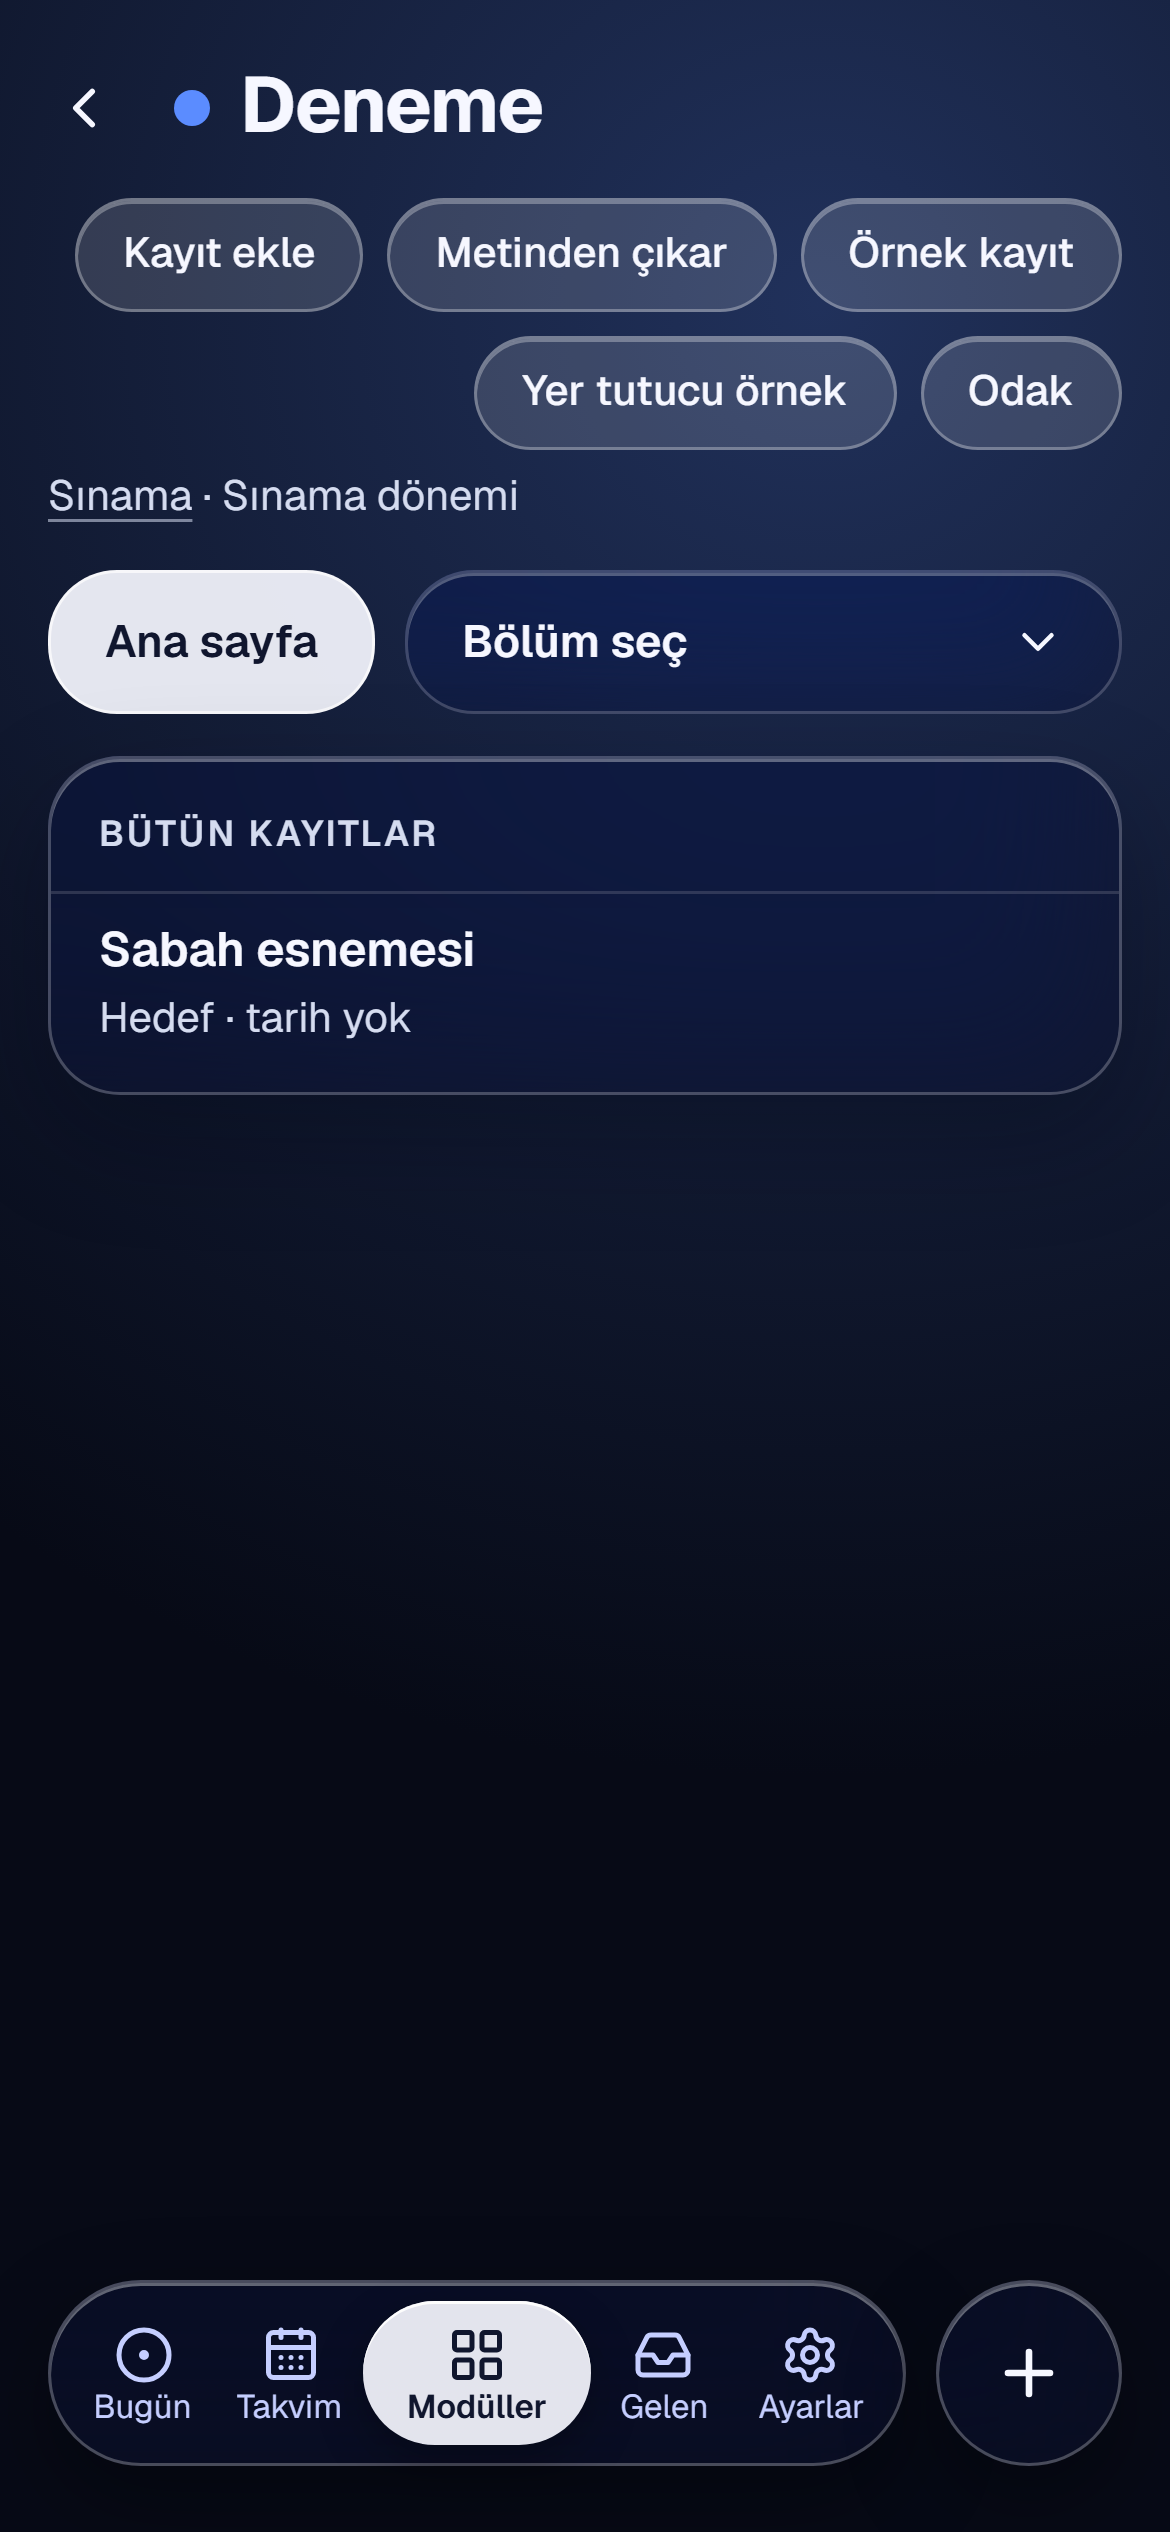
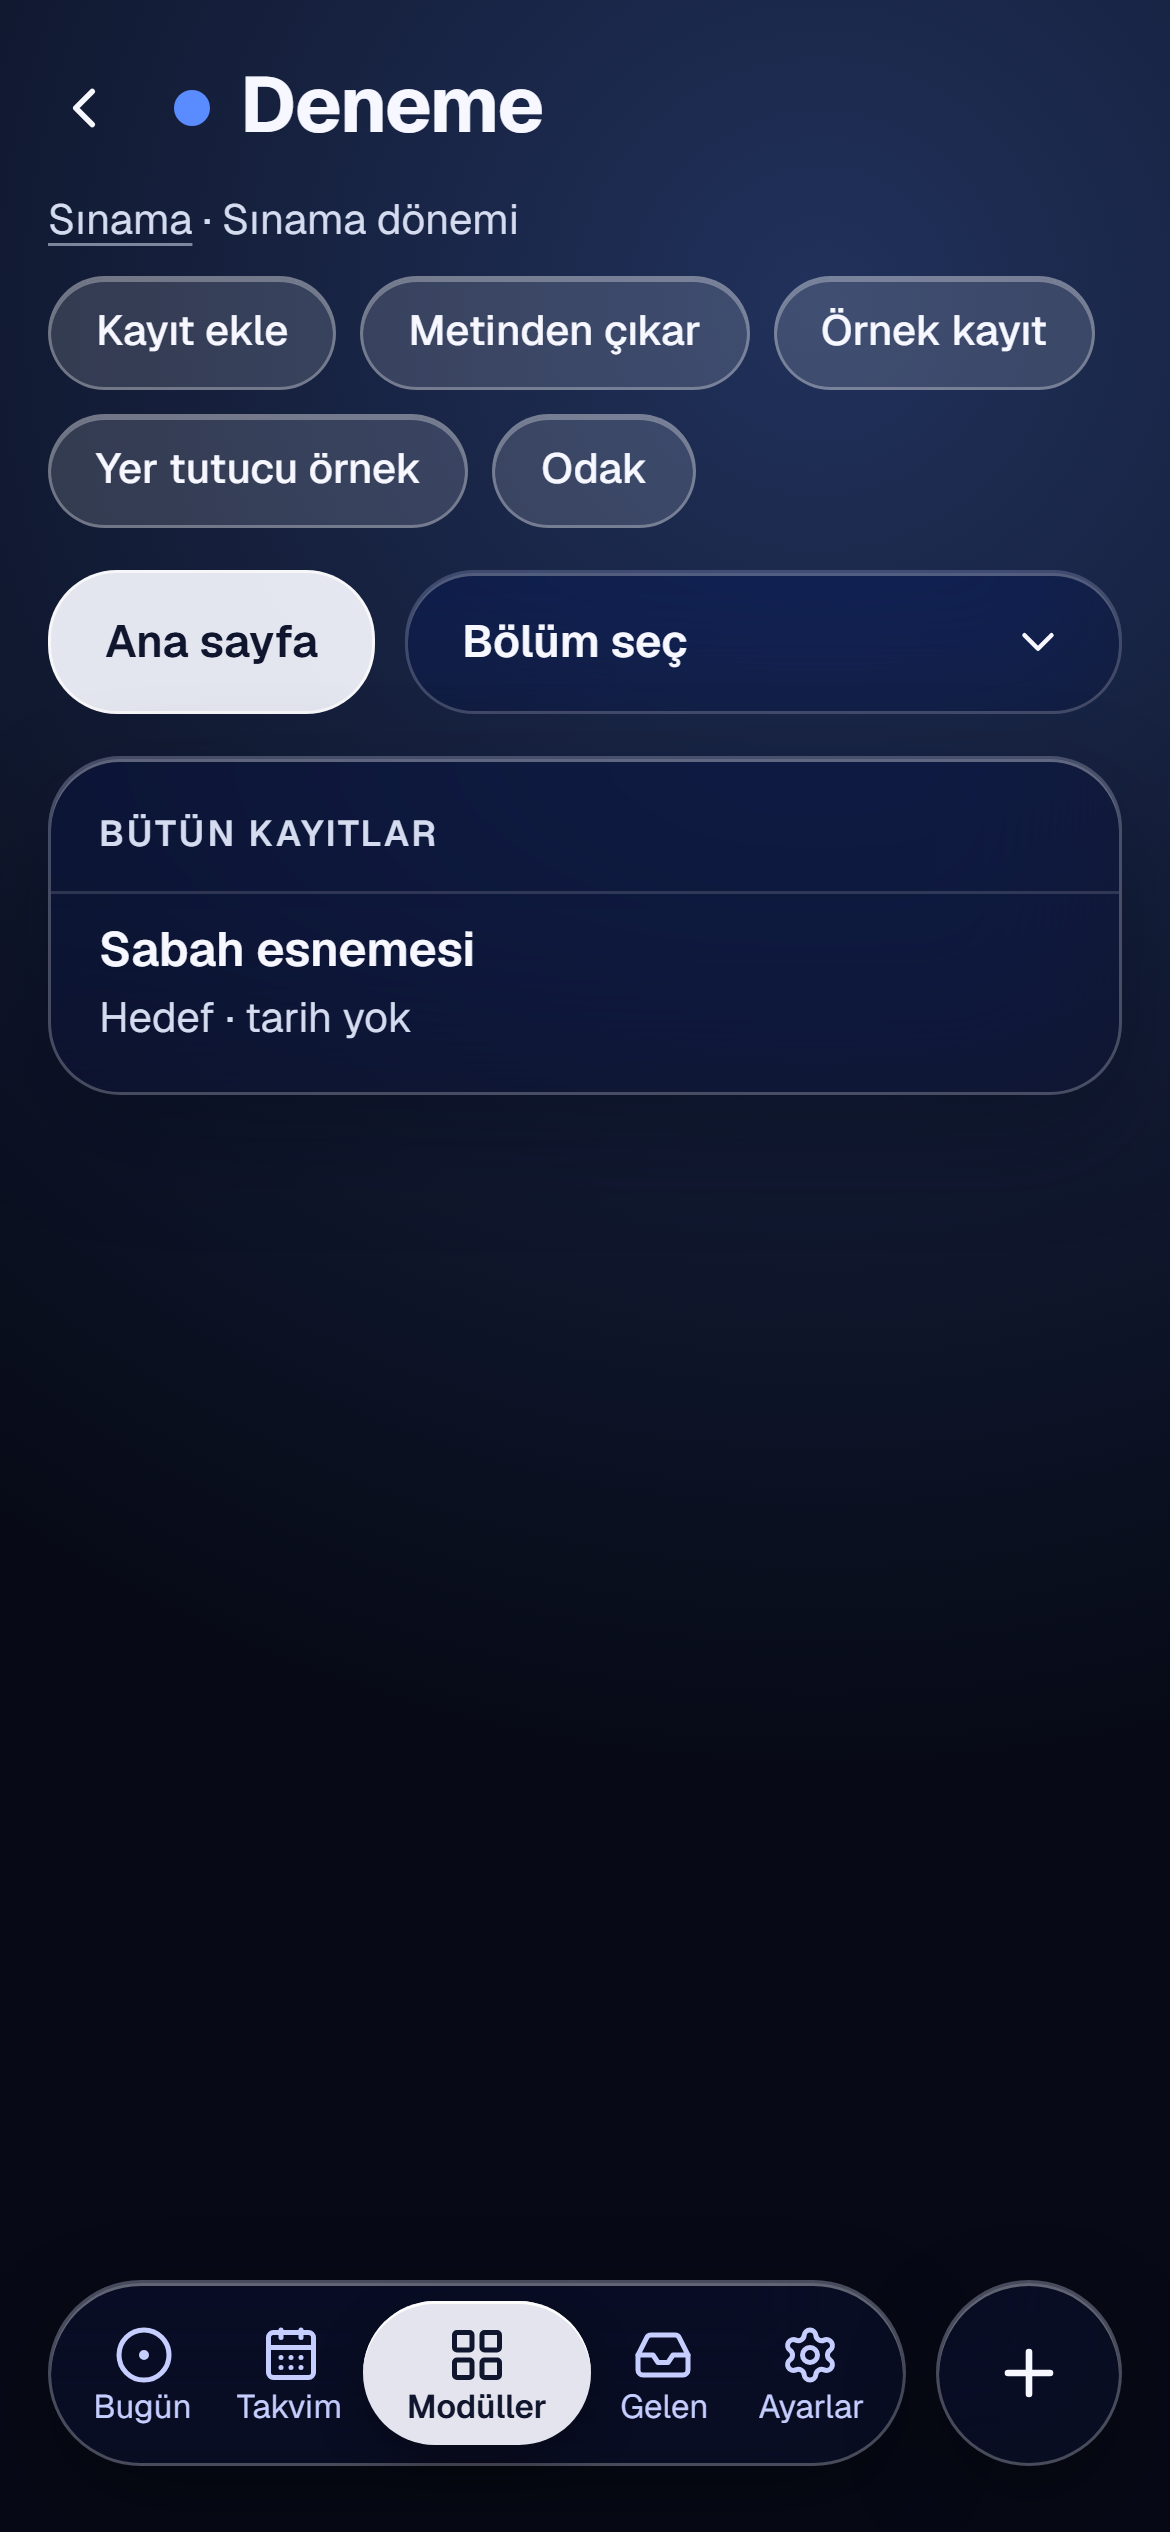
Okul core A: the module page's subtitle right under the name on the phone
The user's decisions after the phase: the "yaklaşık 45 dk" format stays; on the
phone the module page's line (area and subtitle, or the status text) comes right
under the name, the module's buttons after it. A single main button stays on the
name's row (MT2). Okul's AnaSayfa frame draws neither a subtitle nor buttons, so
nothing conflicts.

Approved images renewed on purpose: modul-ana-sayfa-telefon and
modul-secici-telefon (only the header moved: line above the button row, buttons
aligned left). Every other visual image unchanged.

Changed region(s): [[0.0308, 0.0624, 0.9538, 0.2184]]

diff --git a/src/core/ui/module/ModulePageShell.tsx b/src/core/ui/module/ModulePageShell.tsx
@@ -332,6 +332,13 @@ function StatusStrip({ mod, page }: { mod: KnownModule; page: ModulePage }) {
       </>
     ) : null;
 
+  // On the phone the line sits right under the name (the user's decision, 23 Nov 2026): one main
+  // button stays on the name's row (`MT2`); a row of several comes after the line.
+  const buttons =
+    (definition?.ui.actions?.length ?? 0) + (definition?.ui.fullscreen?.length ?? 0) ||
+    (status ? 1 : 0);
+  const after = buttons > 1 ? "order-2 md:order-none" : undefined;
+
   return (
     <section aria-label="Durum" className="flex flex-col gap-3.5 md:gap-4">
       <div className="flex flex-wrap items-center gap-x-3 gap-y-2">
@@ -360,7 +367,7 @@ function StatusStrip({ mod, page }: { mod: KnownModule; page: ModulePage }) {
           <div
             role="toolbar"
             aria-label="Hızlı eylemler"
-            className="flex flex-wrap justify-end gap-2"
+            className={cn("flex flex-wrap gap-2 md:justify-end", after)}
           >
             {(definition.ui.actions ?? []).map((action) => (
               <Button key={action.key} size="sm" onClick={() => void run(action)}>
@@ -382,8 +389,10 @@ function StatusStrip({ mod, page }: { mod: KnownModule; page: ModulePage }) {
             İş ekle
           </Button>
         ) : null}
+        {line ? (
+          <p className="text-ink-2 order-1 -mt-0.5 basis-full text-sm md:hidden">{line}</p>
+        ) : null}
       </div>
-      {line ? <p className="text-ink-2 -mt-2 text-sm md:hidden">{line}</p> : null}
 
       {status && report.data && report.data.metrics.length > 0 ? (
         <Panel variant="dense" className="px-4 py-3.5 md:px-6">

diff --git a/docs/tasarim/parcalar.md b/docs/tasarim/parcalar.md
@@ -21,7 +21,7 @@ Yeni bir parça önce buraya ve galeriye girer, sonra kullanılır.
 | **Simge düğmesi** | `spacing-touch` daire; basılı hali açık. Adı `label`'dır. Sessiz hali (`quiet`): dolgusuz ve kenarsız, yalnızca simge (Takvim'in hafta seçicisi). | `IconButton` | `color-fill-field`, `color-edge-icon`, `color-fill-active`, `color-edge-pressed` |
 | **Alan** | Yükseklik `spacing-field`, köşe `radius-field`, yazı `text-base` (telefonda yakınlaştırma olmasın). Odakta beyaz kenar ve halka; hatada mercan kenar ve altında simgeyle tek cümle. Saat alanı "SS:dd". Etiket üstte `text-sm` ikincil; ipucu altta `text-meta`. | `Input`, `Select`, `Textarea`, `Field`, `FieldError` (`Field.tsx`) | `spacing-field`, `radius-field`, `color-fill-field`, `color-edge-field`, `color-focus`, `shadow-focus`, `color-behind` |
 | **Tarih alanı** | Tarayıcının kendi tarih alanı (seçicisi, klavyesi, değeri `yyyy-aa-gg`); dinlenirken tarih Türkçe yazılır ("20.11.2026"; boşken soluk "gg.aa.yyyy"), çünkü tarayıcı tarihi kendi dilinde yazar (İngilizce tarayıcıda "20-Nov-2026"). Düzenlenirken tarayıcının kendi yazısı görünür; tıklamak seçiciyi açar. Alanın ölçüleri ve halleri "Alan" gibi. | `DateInput` (`Field.tsx`), `.date-field` (`glass.css`); `turkishDate` | `spacing-field`, `color-ink`, `color-ink-3` |
-| **Yaklaşık süre** | Okul çekirdek A (karesi yok; **görüşün gerek**): yer tutucu eforun süresi, sürenin önünde düz yazıyla "yaklaşık" ("yaklaşık 2 sa"; ilerlemede "0 dk / yaklaşık 8 sa"). Renk, simge ve hap yok; aynı satırın yazısıyla. Bugün'ün kartı ve Sıradakiler, Takvim'in haftanın işleri, modül sayfasının Yaklaşanlar'ı. "Neden?" altında "Süre yaklaşık: <gerekçe>". | `effortText`, `effortWhy` (`src/core/today/effort.ts`) | — |
+| **Yaklaşık süre** | Okul çekirdek A (karesi yok; biçim onaylı, kullanıcının kararı, 23 Kas 2026): yer tutucu eforun süresi, sürenin önünde düz yazıyla "yaklaşık" ("yaklaşık 2 sa"; ilerlemede "0 dk / yaklaşık 8 sa"). Renk, simge ve hap yok; aynı satırın yazısıyla. Bugün'ün kartı ve Sıradakiler, Takvim'in haftanın işleri, modül sayfasının Yaklaşanlar'ı. "Neden?" altında "Süre yaklaşık: <gerekçe>". | `effortText`, `effortWhy` (`src/core/today/effort.ts`) | — |
 | **Yapay zekanın koyduğu değer** | Alanın kenarı kesiklidir; altında simgeyle gerekçesi. Kullanıcı alanı değiştirince kenar düz olur, gerekçe kalkar. Hap olarak: kesik kenarlı hap. | `Input ai`, `Select ai`, `AiReason`, `AiTag` | `color-edge-ai` |
 | **Anahtar** | Açık: opak açık, koyu topuz sağda; kapalı: soluk iz, açık topuz solda. Dokunma alanı `spacing-touch`. Satırda yazı solda, anahtar sağda. | `Switch`, `SwitchRow` (`Switch.tsx`) | `color-light`, `color-ink-dark`, `color-fill-off`, `color-edge-button` |
 | **Sayaç** | Bir sayı ya da süre, iki yanında "−" ve "+" dairesi; ortada değer yarı kalın, sabit genişlikte rakamlarla, varsa birimi küçük ve ikincil ("8 saat"). Küçük boy (form ve ayar satırı; Rutin'in karesi): `size-8` daire, dokunma alanı kenarından taşar (`spacing-touch`). Büyük boy (tam ekran görünüm, başparmak için): `spacing-touch` daire. En küçük ya da en büyük değerde ilgili daire soluk ve basılmaz. Adım sabit ya da değere bağlı (Rutin: dakikanın altında 15 sn, üstünde 1 dk). Adı grubun ve düğmelerin adıdır ("Süre: azalt", "Süre: artır"). Kullananlar: Rutin'in adım sayfası (süre, kaç günde bir, alt adımın süresi), Ayarlar → Günün çerçevesi (uyku hedefi), `deneme`. | `Stepper` (`Stepper.tsx`; `size`: `sm`, `lg`) | `color-fill-button`, `color-ink`, `color-ink-2`, `spacing-touch`, `shadow-focus` |

diff --git a/docs/tasarim/ekranlar/bugun.md b/docs/tasarim/ekranlar/bugun.md
@@ -4,7 +4,7 @@ Kaynak: `docs/13-cam-dili.md` bölüm 4.1 (15 Kas 2026, onaylı); kurulduğu faz
 
 ## Okul çekirdek A (23 Kas 2026)
 
-- Yer tutucu sürenin dakikası kartta ve Sıradakiler'de "yaklaşık" ile yazar; "Neden?" altında "Süre yaklaşık: <gerekçe>" (**görüşün gerek**; `parcalar.md`, "Yaklaşık süre").
+- Yer tutucu sürenin dakikası kartta ve Sıradakiler'de "yaklaşık" ile yazar; "Neden?" altında "Süre yaklaşık: <gerekçe>" (kullanıcının kararı, 23 Kas 2026: biçim kalır; `parcalar.md`, "Yaklaşık süre").
 - Modülün teklif ettiği sabit blok (Sıradakiler, "Bugünün sabit blokları", günün akışındaki parçası) dokunulunca modülün blok görünümünü açar; blok sürerken Şimdi kartında tek eylem (modülün adı, yoksa "Aç"). Elle eklenen blok eskisi gibi.
 
 ## Bugün'ün durumları ("1 · Bugün" sayfası; onaylandı, 15 Kas 2026)

diff --git a/docs/tasarim/ekranlar/takvim.md b/docs/tasarim/ekranlar/takvim.md
@@ -4,7 +4,7 @@ Kaynak: `docs/13-cam-dili.md` bölüm 4.3 (15 Kas 2026, onaylı); kurulduğu faz
 
 ## Okul çekirdek A (23 Kas 2026)
 
-- Haftanın işlerinde yer tutucu eforun payı "yaklaşık" ile yazar ("0 dk / yaklaşık 8 sa"; **görüşün gerek**).
+- Haftanın işlerinde yer tutucu eforun payı "yaklaşık" ile yazar ("0 dk / yaklaşık 8 sa"; kullanıcının kararı, 23 Kas 2026: biçim kalır).
 - Gün ayrıntısının "Sabit" satırlarında modülün teklif ettiği blok dokunulunca blok görünümünü açar (Bugün'ün adresiyle).
 
 ## Takvim (eski adı Hafta; "3 · Takvim" sayfası; onaylandı, 15 Kas 2026)
